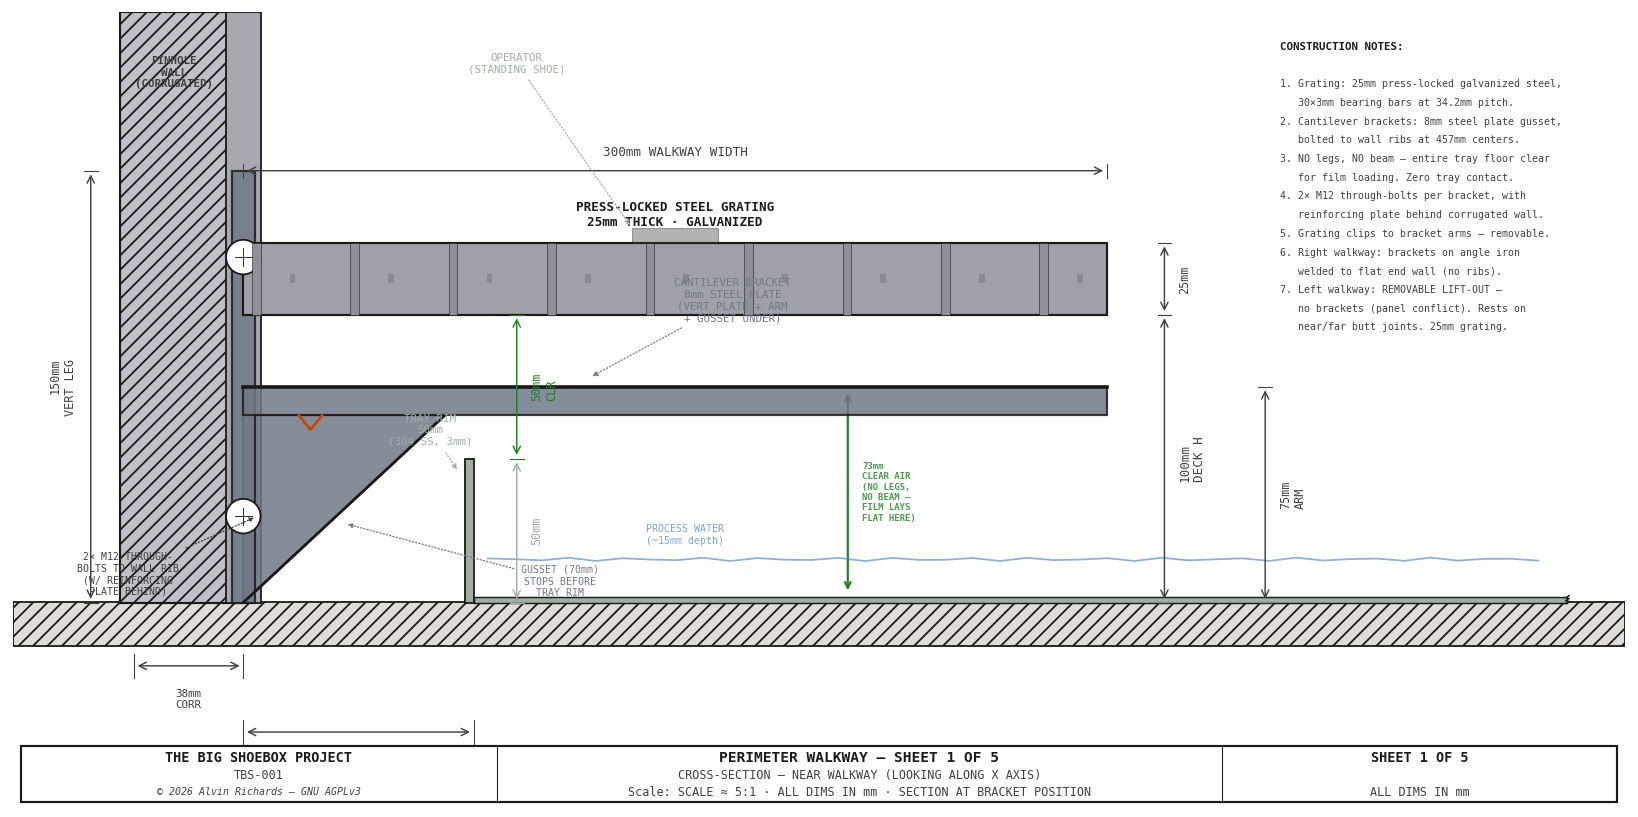
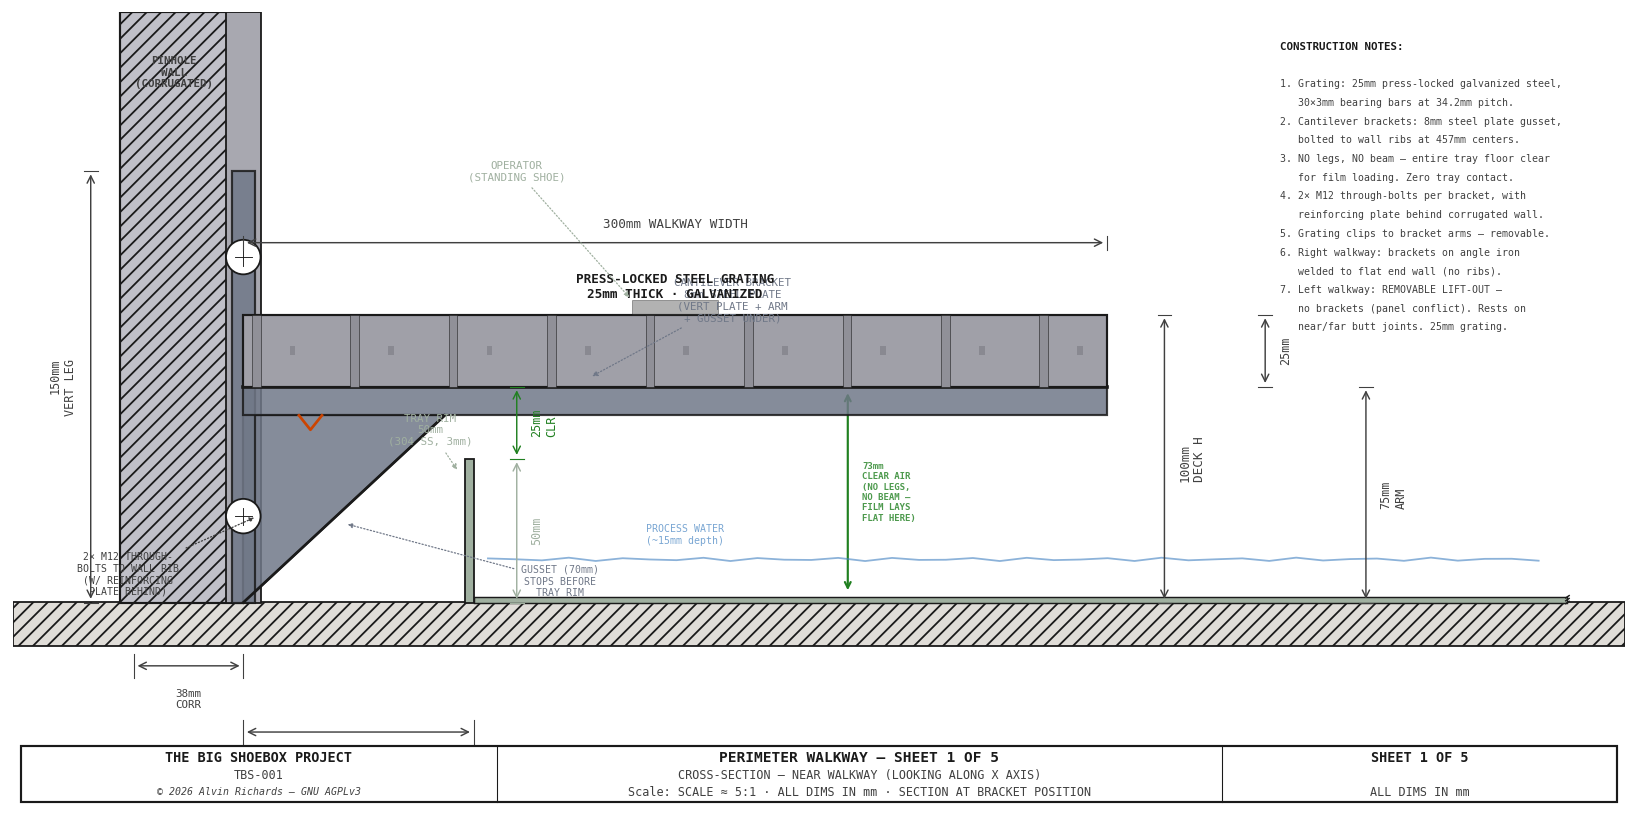
Fix walkway sheets 1 & 5: grating position, tray, bolts
Sheet 1: grating was drawn at Z=100-125 instead of Z=75-100. Now
correctly sits on bracket arm (75mm) with top at deck height (100mm).
Dimension lines updated accordingly.

Sheet 5: three fixes —
- Processing tray now complete (rim + floor + break line)
- Both walkway gratings aligned at Z=75-100mm (were mismatched)
- Bracket mounting now shows 2x M12 through-bolts to wall rib

diff --git a/generate_walkway_diagram.py b/generate_walkway_diagram.py
@@ -235,8 +235,9 @@ def sheet1():
            ha="center", va="center", arrow_style="-|>", font=FONT)
 
     # ── Grated deck ──────────────────────────────────────────────────────────
-    grate_bot = WALKWAY_H
-    grate_top = WALKWAY_H + WALKWAY_GRATE_T
+    # Grating sits on bracket arm: bottom at BRKT_ARM_H (75mm), top at WALKWAY_H (100mm)
+    grate_bot = brkt_arm_z  # = 75mm
+    grate_top = grate_bot + WALKWAY_GRATE_T  # = 100mm = WALKWAY_H
     ax.add_patch(Rectangle((sx(0), sy(grate_bot)),
                             sx(WALKWAY_W), sy(WALKWAY_GRATE_T),
                             fc=C_GRATE, ec=C_OUT, lw=1.2, zorder=7))
@@ -275,12 +276,12 @@ def sheet1():
     draw_dim_h(ax, sx(0), sx(WALKWAY_W), sy(grate_top + 25),
                f"{WALKWAY_W}mm WALKWAY WIDTH", offset=sy(8), fs=7, font=FONT)
 
-    # Deck height (floor to grate bottom)
-    draw_dim_v(ax, sx(WALKWAY_W + 20), sy(0), sy(grate_bot),
+    # Deck height (floor to grate top)
+    draw_dim_v(ax, sx(WALKWAY_W + 20), sy(0), sy(grate_top),
                f"{WALKWAY_H}mm\nDECK H", offset=sx(8), fs=7, right=True, font=FONT)
 
     # Grate thickness
-    draw_dim_v(ax, sx(WALKWAY_W + 20), sy(grate_bot), sy(grate_top),
+    draw_dim_v(ax, sx(WALKWAY_W + 55), sy(grate_bot), sy(grate_top),
                f"{WALKWAY_GRATE_T}mm", offset=sx(8), fs=6.5, right=True, font=FONT)
 
     # Bracket vertical leg height
@@ -288,7 +289,7 @@ def sheet1():
                f"{BRKT_VERT}mm\nVERT LEG", offset=sx(8), fs=6.5, right=False, font=FONT)
 
     # Bracket arm height
-    draw_dim_v(ax, sx(WALKWAY_W + 55), sy(0), sy(brkt_arm_z),
+    draw_dim_v(ax, sx(WALKWAY_W + 90), sy(0), sy(brkt_arm_z),
                f"{brkt_arm_z}mm\nARM", offset=sx(8), fs=6.5, right=True, font=FONT)
 
     # Tray rim height
@@ -297,8 +298,8 @@ def sheet1():
                color=C_TRAY, font=FONT)
 
     # Clearance above rim (grate bottom to rim top)
-    clr = WALKWAY_H - PROC_TRAY_RIM
-    draw_dim_v(ax, sx(TRAY_RIM_YD + 15), sy(PROC_TRAY_RIM), sy(WALKWAY_H),
+    clr = grate_bot - PROC_TRAY_RIM
+    draw_dim_v(ax, sx(TRAY_RIM_YD + 15), sy(PROC_TRAY_RIM), sy(grate_bot),
                f"{clr}mm\nCLR", offset=sx(8), fs=6.5, right=True,
                color="#208020", font=FONT)
 
@@ -1160,9 +1161,13 @@ def sheet5():
     def sx(mm): return mm * S
     def sy(mm): return mm * S
 
-    BRKT_ARM_Z = WALKWAY_H - WALKWAY_GRATE_T  # 75mm
+    BRKT_ARM_Z = WALKWAY_H - WALKWAY_GRATE_T  # 75mm (bracket arm top = grate bottom)
     ARM_DEPTH  = WALKWAY_BRACKET_T + 2
     arm_bot    = BRKT_ARM_Z - ARM_DEPTH
+    CORR_DEPTH = 38      # corrugation depth
+    WALL_T     = 1.6     # wall steel thickness
+    TRAY_WALL  = 3       # tray wall thickness (SS)
+    TRAY_FLOOR_T = 2     # tray floor thickness
 
     # The butt joint: near walkway ends at X=470, left walkway starts at X=170.
     # The near walkway bracket arm extends to Yd=300, left walkway grating
@@ -1173,9 +1178,9 @@ def sheet5():
     # Yd = horizontal axis (0 = pinhole wall)
     # Z = vertical axis
     YD_LO = -60
-    YD_HI = WALKWAY_W + 200
+    YD_HI = WALKWAY_W * 2 + 120  # room for left walkway + notes
     Z_LO  = -40
-    Z_HI  = WALKWAY_H + WALKWAY_GRATE_T + 120
+    Z_HI  = WALKWAY_H + 100
 
     fig, ax = plt.subplots(figsize=(16, 10))
     fig.patch.set_facecolor(BG)
@@ -1190,27 +1195,64 @@ def sheet5():
                             fc=C_FLOOR, ec=C_OUT, lw=1.0, hatch="///", zorder=2))
 
     # ── Pinhole wall (corrugated, at Yd=0) ───────────────────────────────────
-    CORR_DEPTH = 38
     ax.add_patch(Rectangle((sx(-CORR_DEPTH - 5), sy(0)),
                             sx(CORR_DEPTH + 5), sy(Z_HI),
                             fc=C_WALL, ec=C_OUT, lw=1.0, hatch="///", zorder=3))
+    # Corrugation rib at section cut
+    rib_w = 12
+    ax.add_patch(Rectangle((sx(-rib_w / 2), sy(0)),
+                            sx(rib_w), sy(Z_HI),
+                            fc="#A8A8B0", ec=C_OUT, lw=1.0, zorder=3))
     ax.text(sx(-CORR_DEPTH / 2 - 3), sy(Z_HI - 8),
             "PINHOLE\nWALL",
             ha="center", va="top", fontsize=5.5, color=C_DIM,
             fontweight="bold", **FONT, zorder=15)
 
-    # ── Near walkway bracket arm (projecting from wall) ──────────────────────
-    # This is one of the near walkway brackets at the left miter corner.
+    # ── Near walkway bracket (full detail with bolts) ────────────────────────
+    BRKT_T = WALKWAY_BRACKET_T  # 8mm
+    BRKT_VERT = WALKWAY_BRACKET_H  # 150mm
+
+    # Vertical mounting plate on wall
+    ax.add_patch(Rectangle((sx(-BRKT_T / 2), sy(0)),
+                            sx(BRKT_T), sy(BRKT_VERT),
+                            fc=C_BRKT, ec=C_OUT, lw=1.2, zorder=6, alpha=0.85))
+
+    # Through-bolts (2x M12 through wall rib + bracket plate)
+    BOLT_D = 12
+    BOLT_R = BOLT_D / 2
+    bolt_z1 = 30
+    bolt_z2 = 120
+    C_BOLT = "#505058"
+    NUT_H = 10
+    BOLT_HEAD = 8
+
+    for bz in [bolt_z1, bolt_z2]:
+        shank_hw = BOLT_R * 0.4
+        # Bolt shank through rib + bracket
+        ax.add_patch(Rectangle((sx(-rib_w / 2), sy(bz - shank_hw)),
+                                sx(rib_w + BRKT_T / 2), sy(shank_hw * 2),
+                                fc=C_BOLT, ec=C_OUT, lw=0.8, zorder=10))
+        # Bolt head (behind wall / on reinforcing plate)
+        ax.add_patch(Rectangle((sx(-rib_w / 2 - BOLT_HEAD), sy(bz - BOLT_R)),
+                                sx(BOLT_HEAD), sy(BOLT_D),
+                                fc=C_BOLT, ec=C_OUT, lw=1.0, zorder=10))
+        # Nut on interior side of bracket
+        ax.add_patch(Rectangle((sx(BRKT_T / 2), sy(bz - BOLT_R)),
+                                sx(NUT_H), sy(BOLT_D),
+                                fc=C_BOLT, ec=C_OUT, lw=1.0, zorder=10))
+
+    leader(ax, sx(BRKT_T / 2 + NUT_H + 2), sy(bolt_z2),
+           sx(BRKT_T / 2 + 50), sy(bolt_z2 + 15),
+           f"2\u00d7 M12 THROUGH-\nBOLTS TO WALL RIB\n(W/ REINFORCING\nPLATE BEHIND)",
+           color=C_DIM, fs=5.5,
+           ha="left", va="center", arrow_style="-|>", font=FONT)
+
+    # Horizontal arm (projects inward at Z=BRKT_ARM_Z)
     ax.add_patch(Rectangle((sx(0), sy(arm_bot)),
                             sx(WALKWAY_W), sy(ARM_DEPTH),
                             fc=C_BRKT, ec=C_OUT, lw=1.2, zorder=6, alpha=0.85))
     ax.plot([sx(0), sx(WALKWAY_W)], [sy(BRKT_ARM_Z), sy(BRKT_ARM_Z)],
             color=C_OUT, lw=2.0, zorder=7)
-
-    # Bracket vertical plate on wall
-    ax.add_patch(Rectangle((sx(-WALKWAY_BRACKET_T / 2), sy(0)),
-                            sx(WALKWAY_BRACKET_T), sy(WALKWAY_BRACKET_H),
-                            fc=C_BRKT, ec=C_OUT, lw=1.2, zorder=6, alpha=0.85))
 
     # Gusset under near walkway arm
     GUSSET_REACH = 70
@@ -1221,6 +1263,8 @@ def sheet5():
     ]
     ax.add_patch(Polygon(gusset_verts, closed=True,
                          fc=C_BRKT, ec=C_OUT, lw=1.2, zorder=5, alpha=0.85))
+    ax.plot([sx(0), sx(GUSSET_REACH)], [sy(0), sy(arm_bot)],
+            color=C_OUT, lw=1.5, zorder=6)
 
     leader(ax, sx(WALKWAY_W / 2), sy(arm_bot - 3),
            sx(WALKWAY_W / 2 - 30), sy(arm_bot - 25),
@@ -1228,10 +1272,10 @@ def sheet5():
            color=C_BRKT, fs=5.5,
            ha="center", va="center", arrow_style="-|>", font=FONT)
 
-    # ── Near walkway grating (on the bracket) ────────────────────────────────
-    grate_bot = WALKWAY_H
-    grate_top = WALKWAY_H + WALKWAY_GRATE_T
-    # Near walkway grating fills Yd=0 to WALKWAY_W
+    # ── Near walkway grating (on the bracket arm) ────────────────────────────
+    # Grating sits on bracket arm: bottom at BRKT_ARM_Z (75mm), top at WALKWAY_H (100mm)
+    grate_bot = BRKT_ARM_Z  # = 75mm
+    grate_top = grate_bot + WALKWAY_GRATE_T  # = 100mm
     ax.add_patch(Rectangle((sx(0), sy(grate_bot)),
                             sx(WALKWAY_W), sy(WALKWAY_GRATE_T),
                             fc=C_GRATE, ec=C_OUT, lw=1.2, zorder=7))
@@ -1246,14 +1290,11 @@ def sheet5():
             ha="center", va="bottom", fontsize=5.5, color=C_OUT,
             **FONT, zorder=15)
 
-    # ── Left walkway grating (sits on top of bracket arm, past butt joint) ──
-    # The left walkway grating starts at the butt joint (Yd = WALKWAY_W)
-    # and extends inward. It sits directly on the bracket arm top surface.
-    # Same grating as near/far: WALKWAY_GRATE_T (25mm).
+    # ── Left walkway grating (sits on bracket arm, past butt joint) ──────────
+    # Same grating as near/far: bottom at BRKT_ARM_Z (75mm), top at 100mm.
     left_grate_yd_start = WALKWAY_W  # butt joint line
-    left_grate_yd_end = left_grate_yd_start + WALKWAY_W  # 300mm wide
-    left_grate_bot = BRKT_ARM_Z  # sits on bracket arm top (Z=75)
-    left_grate_top = left_grate_bot + WALKWAY_GRATE_T  # Z = 75 + 25 = 100mm
+    left_grate_bot = BRKT_ARM_Z  # = 75mm — same as near walkway
+    left_grate_top = left_grate_bot + WALKWAY_GRATE_T  # = 100mm
 
     ax.add_patch(Rectangle((sx(left_grate_yd_start), sy(left_grate_bot)),
                             sx(WALKWAY_W), sy(WALKWAY_GRATE_T),
@@ -1278,8 +1319,6 @@ def sheet5():
             **FONT, zorder=15)
 
     # ── Support detail: left grating resting on bracket arm ──────────────────
-    # Show the contact point clearly — left grating bottom at Z=75 sits on
-    # the bracket arm top surface at Z=75. Mark with a highlight.
     contact_yd = left_grate_yd_start
     ax.plot([sx(contact_yd - 5), sx(contact_yd + 30)],
             [sy(BRKT_ARM_Z), sy(BRKT_ARM_Z)],
@@ -1291,8 +1330,8 @@ def sheet5():
            ha="left", va="center", arrow_style="-|>", font=FONT)
 
     # ── Unsupported span annotation ──────────────────────────────────────────
-    # Arrow indicating the left walkway spans freely between near and far butt joints
     span_y = left_grate_top + 35
+    left_grate_yd_end = left_grate_yd_start + WALKWAY_W
     ax.annotate("", xy=(sx(left_grate_yd_start), sy(span_y)),
                 xytext=(sx(left_grate_yd_end), sy(span_y)),
                 arrowprops=dict(arrowstyle="<->", color="#2060A0", lw=1.5, mutation_scale=10))
@@ -1301,19 +1340,35 @@ def sheet5():
             ha="center", va="bottom", fontsize=6, color="#2060A0",
             fontweight="bold", **FONT, zorder=15)
 
-    # ── Processing tray rim (for context) ────────────────────────────────────
-    tray_yd = PROC_TRAY_YD_NEAR  # = 80mm
-    ax.add_patch(Rectangle((sx(tray_yd - 3), sy(0)),
-                            sx(3), sy(PROC_TRAY_RIM),
+    # ── Processing tray (complete: near rim + floor + break line) ────────────
+    tray_yd = PROC_TRAY_YD_NEAR  # = 80mm from wall
+    # Near rim (vertical wall)
+    ax.add_patch(Rectangle((sx(tray_yd - TRAY_WALL), sy(0)),
+                            sx(TRAY_WALL), sy(PROC_TRAY_RIM),
+                            fc=C_TRAY, ec=C_OUT, lw=1.0, zorder=4))
+    # Tray floor (extends inward past both walkways)
+    tray_floor_end = YD_HI - 40
+    ax.add_patch(Rectangle((sx(tray_yd), sy(0)),
+                            sx(tray_floor_end - tray_yd), sy(TRAY_FLOOR_T),
                             fc=C_TRAY, ec=C_OUT, lw=0.8, zorder=4))
+    # Break line on tray floor (continues beyond view)
+    bx = sx(tray_floor_end)
+    for z_val in np.linspace(0, TRAY_FLOOR_T * S, 3):
+        ax.plot([bx - 3, bx + 3], [z_val - 2, z_val + 2], color=C_OUT, lw=0.8, zorder=5)
 
-    # ── Height comparison annotation ─────────────────────────────────────────
-    # Near walkway grate top = 100mm, left walkway grate top = 115mm
-    draw_dim_v(ax, sx(left_grate_yd_end + 15), sy(0), sy(left_grate_top),
-               f"{left_grate_top}mm\nTOP", offset=sx(6), fs=6, right=True, font=FONT)
+    # Tray rim label
+    leader(ax, sx(tray_yd - 5), sy(PROC_TRAY_RIM / 2 + 10),
+           sx(tray_yd - 20), sy(PROC_TRAY_RIM + 8),
+           f"TRAY RIM\n{PROC_TRAY_RIM}mm", color=C_TRAY, fs=5.5,
+           ha="center", va="center", arrow_style="-|>", font=FONT)
+
+    # ── Height dimensions ────────────────────────────────────────────────────
+    # Near walkway grate top
     draw_dim_v(ax, sx(-CORR_DEPTH - 10), sy(0), sy(grate_top),
                f"{int(grate_top)}mm\nTOP", offset=sx(6), fs=6, right=False, font=FONT)
-
+    # Left walkway grate top (should match)
+    draw_dim_v(ax, sx(left_grate_yd_end + 15), sy(0), sy(left_grate_top),
+               f"{left_grate_top}mm\nTOP", offset=sx(6), fs=6, right=True, font=FONT)
     # Arm height
     draw_dim_v(ax, sx(left_grate_yd_end + 15), sy(0), sy(BRKT_ARM_Z),
                f"{BRKT_ARM_Z}mm\nARM", offset=sx(30), fs=6, right=True, font=FONT)
@@ -1334,8 +1389,7 @@ def sheet5():
         f"   arms at the butt joints (X=470).",
         f"5. Standard grating ({WALKWAY_GRATE_T}mm) spans",
         f"   {WALKWAY_LEFT_SPAN}mm unsupported gap.",
-        f"6. Left grate top = {left_grate_top}mm",
-        f"   (aligned with near/far grate top at {int(grate_top)}mm).",
+        f"6. Both grate tops aligned at Z={int(grate_top)}mm.",
     ]
     for i, line in enumerate(notes):
         bold = i == 0
@@ -1356,7 +1410,6 @@ def sheet5():
     fig.savefig(svg_path("diagrams/walkway-sheet5.png"), bbox_inches="tight", facecolor=BG)
     plt.close(fig)
     print("  diagrams/walkway-sheet5.png saved")
-
 
 # ═══════════════════════════════════════════════════════════════════════════════
 # Main
